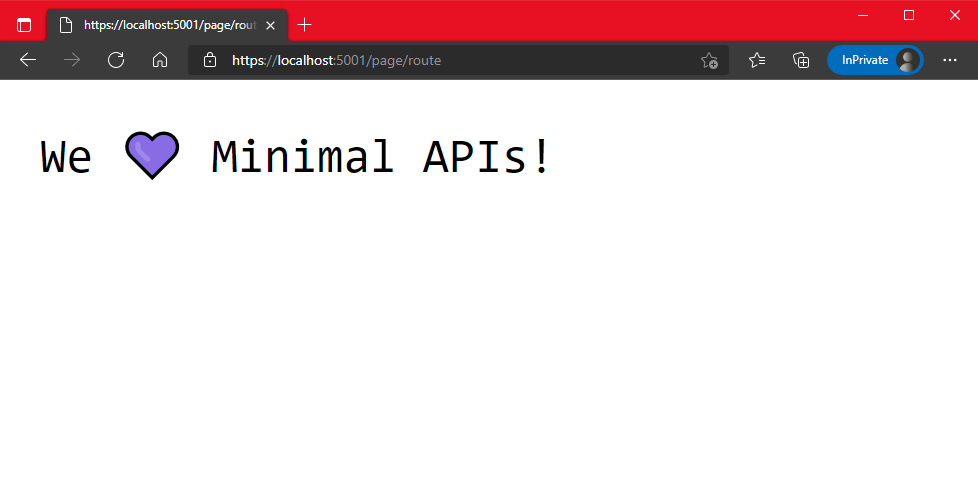
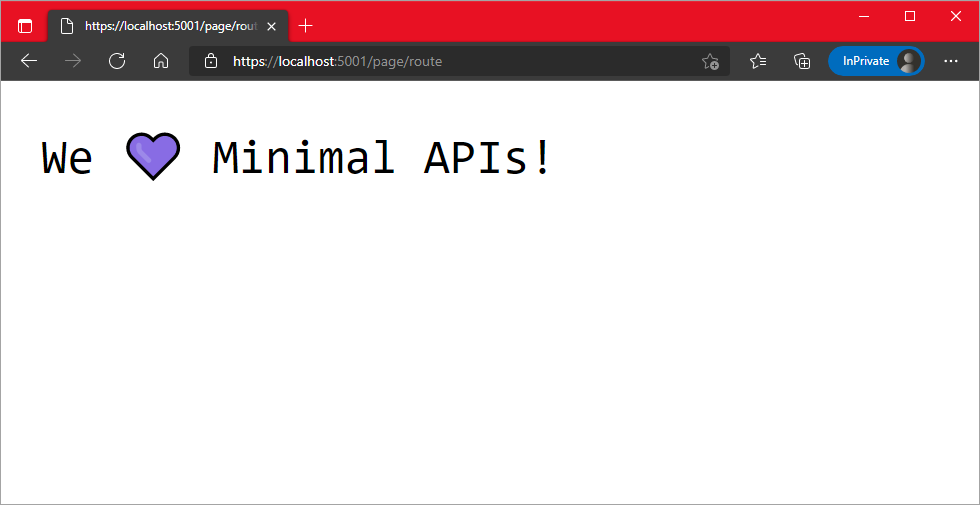
Added image border, and updated cshtml to match

diff --git a/src/quickstart/quickstart.md b/src/quickstart/quickstart.md
@@ -251,7 +251,7 @@ Then you can create a directory called *Pages* and a file named *Index.cshtml* w
 
 <html>
     <body>
-        <p style="font: 3rem monospace;">
+        <p style="font: 3rem monospace; padding: 2rem;">
             We 💜 Minimal APIs!
         </p>
     </body>
